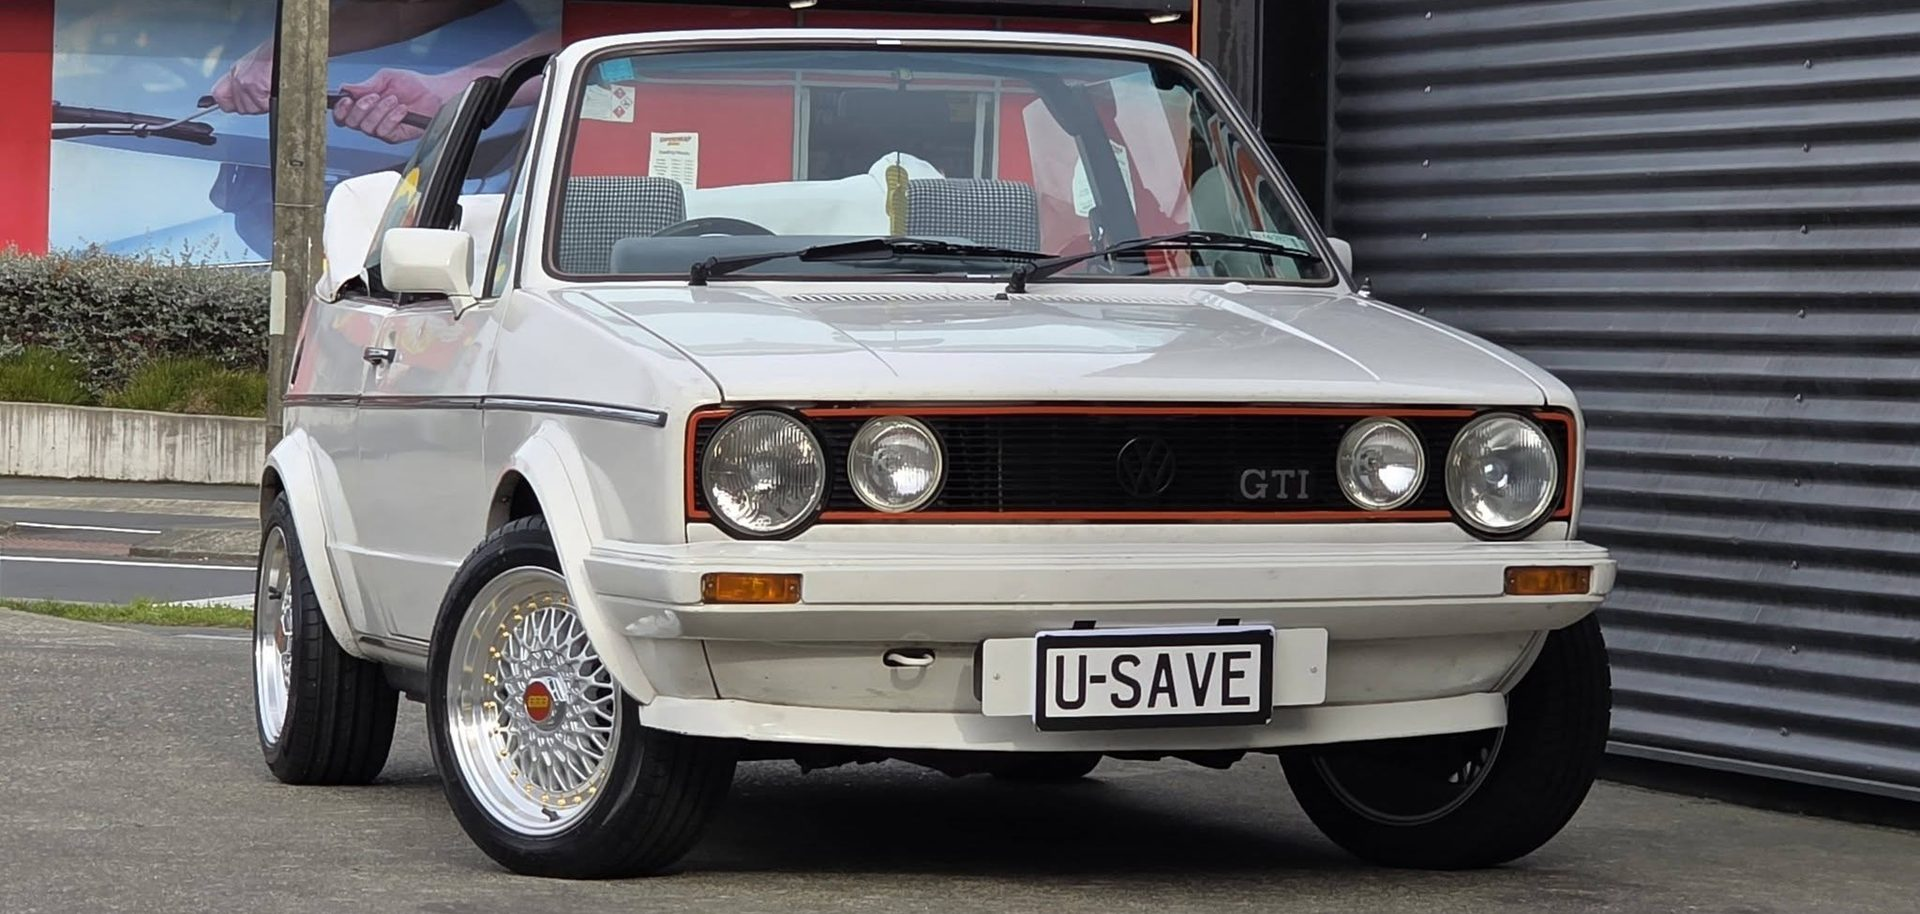
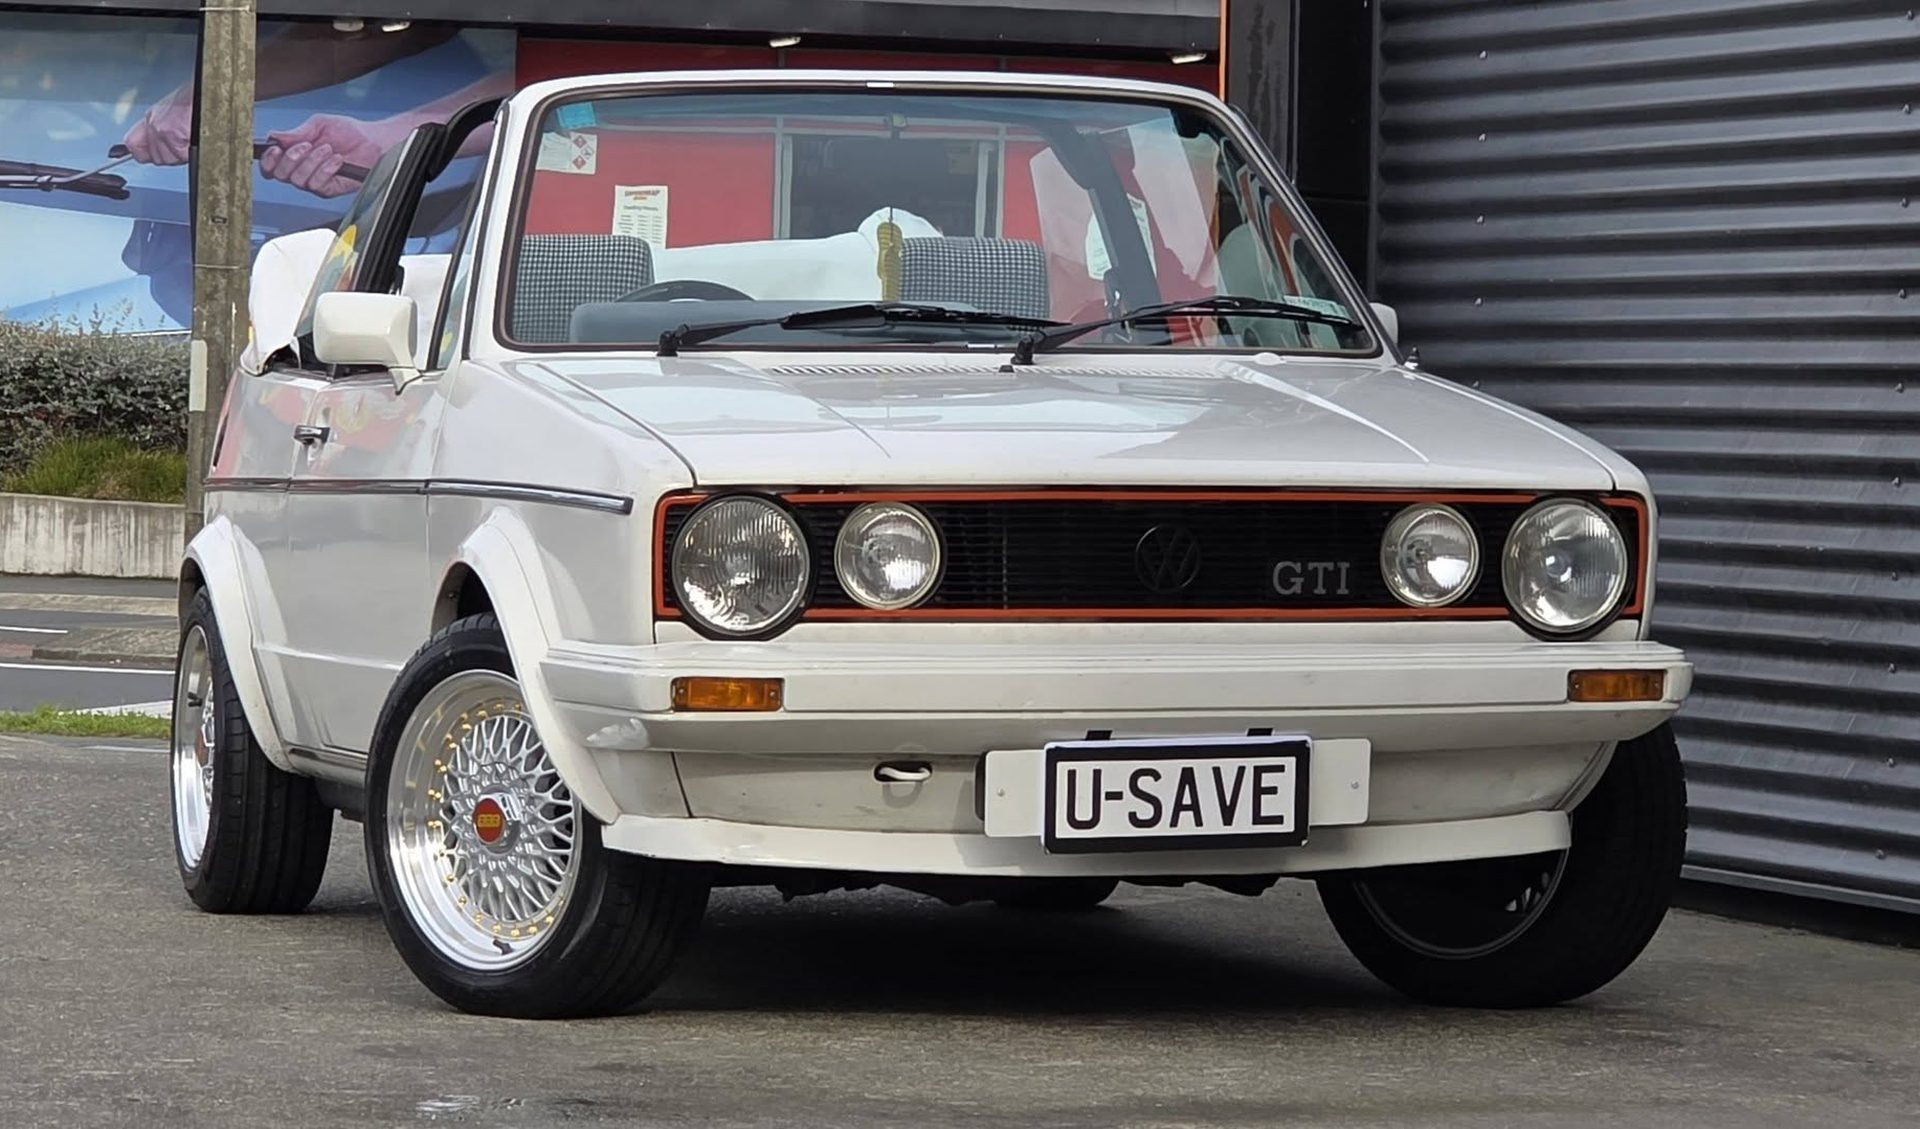
Add files via upload

diff --git a/index.html b/index.html
@@ -52,7 +52,7 @@
     overflow:hidden;background:var(--charcoal);
   }
   .hero-slide{
-    position:absolute;inset:0;background-size:cover;background-position:center 40%;
+    position:absolute;inset:0;background-size:cover;background-position:center 65%;
     opacity:0;transition:opacity 1.6s ease;
   }
   .hero-slide.active{opacity:1;}
